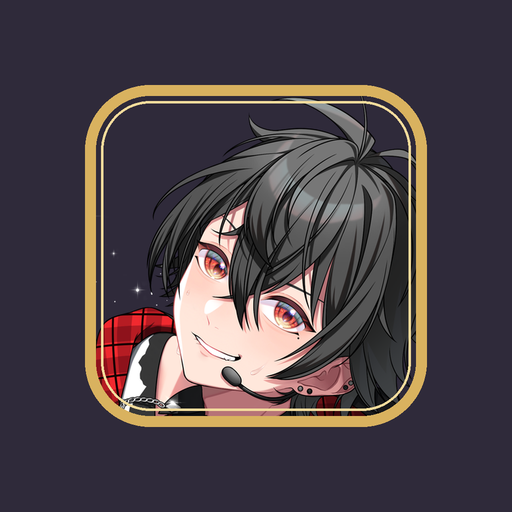
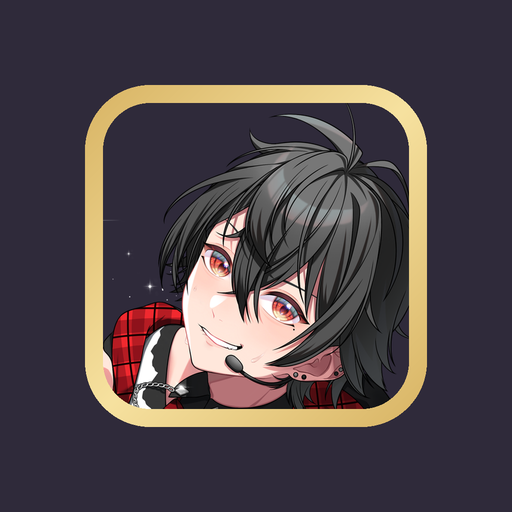
アイコンの外枠を金一重線に変更
Claude-Session: https://claude.ai/code/session_01Q8hdMR51joEyXxJTgwJaSg

Changed region(s): [[0.1562, 0.1562, 0.8438, 0.8438]]

diff --git a/404.html b/404.html
@@ -20,20 +20,20 @@
 <meta property="og:locale" content="ja_JP">
 <meta name="twitter:card" content="summary_large_image">
 <meta name="twitter:image" content="https://ante-stage.github.io/img/og.png">
-<link rel="manifest" href="manifest.webmanifest?v=20261014y">
-<link rel="icon" href="icon-192.png?v=20261014y">
-<link rel="apple-touch-icon" href="apple-touch-icon.png?v=20261014y">
+<link rel="manifest" href="manifest.webmanifest?v=20261014z">
+<link rel="icon" href="icon-192.png?v=20261014z">
+<link rel="apple-touch-icon" href="apple-touch-icon.png?v=20261014z">
 <link rel="preconnect" href="https://fonts.googleapis.com">
 <link rel="preconnect" href="https://fonts.gstatic.com" crossorigin>
 <link href="https://fonts.googleapis.com/css2?family=Dela+Gothic+One&family=M+PLUS+Rounded+1c:wght@500;700;800&family=Cinzel+Decorative:wght@700&display=swap" rel="stylesheet">
 <script>try{if(sessionStorage.getItem('ptin')==='1')document.documentElement.classList.add('pt-in')}catch(e){}</script>
-<link rel="stylesheet" href="assets/site.css?v=20261014y">
+<link rel="stylesheet" href="assets/site.css?v=20261014z">
 </head>
 <body data-page="nf">
 
 <main id="main"><div class="pg"><div class="pghead"><div class="h"><small>404</small><h1>ページが見つかりません</h1></div></div>
 <div class="card" style="text-align:center"><p style="margin-bottom:14px">矢が外れちゃったみたい。ホームに戻ろう♡</p><a class="btn" href="index.html">ホームへ</a></div></div></main>
 
-<script src="assets/site.js?v=20261014y" defer></script>
+<script src="assets/site.js?v=20261014z" defer></script>
 </body>
 </html>

diff --git a/profile.html b/profile.html
@@ -20,14 +20,14 @@
 <meta property="og:locale" content="ja_JP">
 <meta name="twitter:card" content="summary_large_image">
 <meta name="twitter:image" content="https://ante-stage.github.io/img/og.png">
-<link rel="manifest" href="manifest.webmanifest?v=20261014y">
-<link rel="icon" href="icon-192.png?v=20261014y">
-<link rel="apple-touch-icon" href="apple-touch-icon.png?v=20261014y">
+<link rel="manifest" href="manifest.webmanifest?v=20261014z">
+<link rel="icon" href="icon-192.png?v=20261014z">
+<link rel="apple-touch-icon" href="apple-touch-icon.png?v=20261014z">
 <link rel="preconnect" href="https://fonts.googleapis.com">
 <link rel="preconnect" href="https://fonts.gstatic.com" crossorigin>
 <link href="https://fonts.googleapis.com/css2?family=Dela+Gothic+One&family=M+PLUS+Rounded+1c:wght@500;700;800&family=Cinzel+Decorative:wght@700&display=swap" rel="stylesheet">
 <script>try{if(sessionStorage.getItem('ptin')==='1')document.documentElement.classList.add('pt-in')}catch(e){}</script>
-<link rel="stylesheet" href="assets/site.css?v=20261014y">
+<link rel="stylesheet" href="assets/site.css?v=20261014z">
 </head>
 <body data-page="profile">
 
@@ -64,6 +64,6 @@
   </section>
 </div></main>
 
-<script src="assets/site.js?v=20261014y" defer></script>
+<script src="assets/site.js?v=20261014z" defer></script>
 </body>
 </html>

diff --git a/news.html b/news.html
@@ -20,14 +20,14 @@
 <meta property="og:locale" content="ja_JP">
 <meta name="twitter:card" content="summary_large_image">
 <meta name="twitter:image" content="https://ante-stage.github.io/img/og.png">
-<link rel="manifest" href="manifest.webmanifest?v=20261014y">
-<link rel="icon" href="icon-192.png?v=20261014y">
-<link rel="apple-touch-icon" href="apple-touch-icon.png?v=20261014y">
+<link rel="manifest" href="manifest.webmanifest?v=20261014z">
+<link rel="icon" href="icon-192.png?v=20261014z">
+<link rel="apple-touch-icon" href="apple-touch-icon.png?v=20261014z">
 <link rel="preconnect" href="https://fonts.googleapis.com">
 <link rel="preconnect" href="https://fonts.gstatic.com" crossorigin>
 <link href="https://fonts.googleapis.com/css2?family=Dela+Gothic+One&family=M+PLUS+Rounded+1c:wght@500;700;800&family=Cinzel+Decorative:wght@700&display=swap" rel="stylesheet">
 <script>try{if(sessionStorage.getItem('ptin')==='1')document.documentElement.classList.add('pt-in')}catch(e){}</script>
-<link rel="stylesheet" href="assets/site.css?v=20261014y">
+<link rel="stylesheet" href="assets/site.css?v=20261014z">
 </head>
 <body data-page="news">
 
@@ -51,6 +51,6 @@
   </section>
 </div></main>
 
-<script src="assets/site.js?v=20261014y" defer></script>
+<script src="assets/site.js?v=20261014z" defer></script>
 </body>
 </html>

diff --git a/schedule.html b/schedule.html
@@ -20,14 +20,14 @@
 <meta property="og:locale" content="ja_JP">
 <meta name="twitter:card" content="summary_large_image">
 <meta name="twitter:image" content="https://ante-stage.github.io/img/og.png">
-<link rel="manifest" href="manifest.webmanifest?v=20261014y">
-<link rel="icon" href="icon-192.png?v=20261014y">
-<link rel="apple-touch-icon" href="apple-touch-icon.png?v=20261014y">
+<link rel="manifest" href="manifest.webmanifest?v=20261014z">
+<link rel="icon" href="icon-192.png?v=20261014z">
+<link rel="apple-touch-icon" href="apple-touch-icon.png?v=20261014z">
 <link rel="preconnect" href="https://fonts.googleapis.com">
 <link rel="preconnect" href="https://fonts.gstatic.com" crossorigin>
 <link href="https://fonts.googleapis.com/css2?family=Dela+Gothic+One&family=M+PLUS+Rounded+1c:wght@500;700;800&family=Cinzel+Decorative:wght@700&display=swap" rel="stylesheet">
 <script>try{if(sessionStorage.getItem('ptin')==='1')document.documentElement.classList.add('pt-in')}catch(e){}</script>
-<link rel="stylesheet" href="assets/site.css?v=20261014y">
+<link rel="stylesheet" href="assets/site.css?v=20261014z">
 </head>
 <body data-page="schedule">
 
@@ -43,6 +43,6 @@
   </div>
 </div></main>
 
-<script src="assets/site.js?v=20261014y" defer></script>
+<script src="assets/site.js?v=20261014z" defer></script>
 </body>
 </html>

diff --git a/songs.html b/songs.html
@@ -20,14 +20,14 @@
 <meta property="og:locale" content="ja_JP">
 <meta name="twitter:card" content="summary_large_image">
 <meta name="twitter:image" content="https://ante-stage.github.io/img/og.png">
-<link rel="manifest" href="manifest.webmanifest?v=20261014y">
-<link rel="icon" href="icon-192.png?v=20261014y">
-<link rel="apple-touch-icon" href="apple-touch-icon.png?v=20261014y">
+<link rel="manifest" href="manifest.webmanifest?v=20261014z">
+<link rel="icon" href="icon-192.png?v=20261014z">
+<link rel="apple-touch-icon" href="apple-touch-icon.png?v=20261014z">
 <link rel="preconnect" href="https://fonts.googleapis.com">
 <link rel="preconnect" href="https://fonts.gstatic.com" crossorigin>
 <link href="https://fonts.googleapis.com/css2?family=Dela+Gothic+One&family=M+PLUS+Rounded+1c:wght@500;700;800&family=Cinzel+Decorative:wght@700&display=swap" rel="stylesheet">
 <script>try{if(sessionStorage.getItem('ptin')==='1')document.documentElement.classList.add('pt-in')}catch(e){}</script>
-<link rel="stylesheet" href="assets/site.css?v=20261014y">
+<link rel="stylesheet" href="assets/site.css?v=20261014z">
 </head>
 <body data-page="songs">
 
@@ -59,6 +59,6 @@
   </form>
 </div>
 
-<script src="assets/site.js?v=20261014y" defer></script>
+<script src="assets/site.js?v=20261014z" defer></script>
 </body>
 </html>

diff --git a/index.html b/index.html
@@ -20,14 +20,14 @@
 <meta property="og:locale" content="ja_JP">
 <meta name="twitter:card" content="summary_large_image">
 <meta name="twitter:image" content="https://ante-stage.github.io/img/og.png">
-<link rel="manifest" href="manifest.webmanifest?v=20261014y">
-<link rel="icon" href="icon-192.png?v=20261014y">
-<link rel="apple-touch-icon" href="apple-touch-icon.png?v=20261014y">
+<link rel="manifest" href="manifest.webmanifest?v=20261014z">
+<link rel="icon" href="icon-192.png?v=20261014z">
+<link rel="apple-touch-icon" href="apple-touch-icon.png?v=20261014z">
 <link rel="preconnect" href="https://fonts.googleapis.com">
 <link rel="preconnect" href="https://fonts.gstatic.com" crossorigin>
 <link href="https://fonts.googleapis.com/css2?family=Dela+Gothic+One&family=M+PLUS+Rounded+1c:wght@500;700;800&family=Cinzel+Decorative:wght@700&display=swap" rel="stylesheet">
 <script>try{if(sessionStorage.getItem('ptin')==='1')document.documentElement.classList.add('pt-in')}catch(e){}</script>
-<link rel="stylesheet" href="assets/site.css?v=20261014y">
+<link rel="stylesheet" href="assets/site.css?v=20261014z">
 </head>
 <body data-page="home">
 
@@ -98,6 +98,6 @@
 </div>
 </main>
 
-<script src="assets/site.js?v=20261014y" defer></script>
+<script src="assets/site.js?v=20261014z" defer></script>
 </body>
 </html>

diff --git a/assets/site.js b/assets/site.js
@@ -85,7 +85,7 @@ function transitions(){
 
 /* ---------- 見出しの飾り（矢の刺さるハート） ---------- */
 var ORN='<img class="orn" src="img/logo-gold.png" alt="" width="900" height="438" loading="lazy">';
-var VER='20261014y';
+var VER='20261014z';
 function autoUpdate(){
   function chk(){try{fetch('version.json?t='+Date.now(),{cache:'no-store'}).then(function(r){return r.ok?r.json():null;}).then(function(j){
     if(!j||!j.v||j.v===VER)return;var k='verTry';if(ss(k)===j.v)return;ss(k,j.v);
